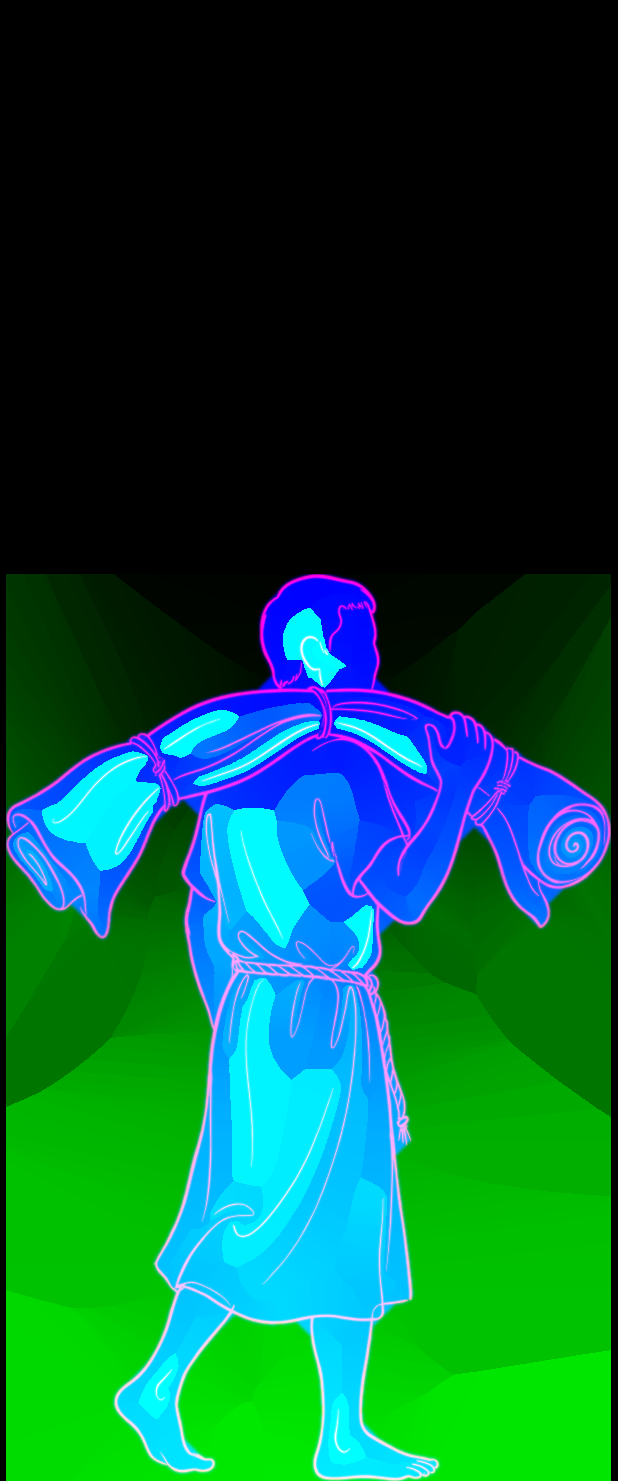
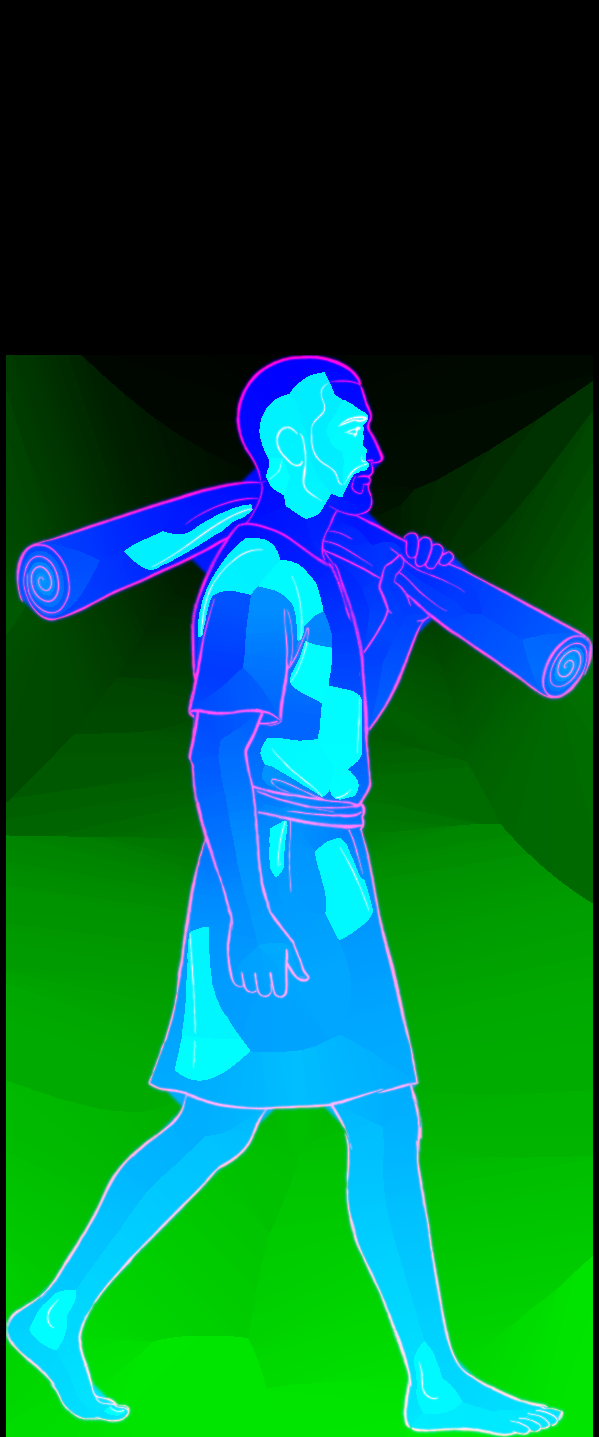
Recap walk: each figure's direction now has a reason
L15 man in water faces John; L16 woman three-quarter toward Jesus, jar on the
ground; L18 healed man strides side-on, narrower pillar; L19 freed man looks at
Jesus; L24 those leaving walk toward and past the viewer, hoods and feet fixed;
L31 healed man's face shows, pool pulled clear of the progress track.

Claude-Session: https://claude.ai/code/session_01PUXW98g7GeRrNVaktcGhRj

diff --git a/tools/recap-video/places/l24.js b/tools/recap-video/places/l24.js
@@ -1,23 +1,25 @@
 // Lesson 24 (full moment): many of his own followers walk away over a hard teaching. Jesus doesn't panic; he knew from the beginning.
-// One detail: the still man with his open hand. You come up behind a crowd following him. One a beat they turn back and pass you. A few stay.
+// One detail: the still man with his open hand. He's ahead of you, so the ones leaving come toward you and past your shoulders, three-quarter, heads down, one a beat. A few stay, from behind, facing him.
+// Leavers are one pose each from first sight to last, solid so they cover whoever's behind, in outer lanes so they never cross the ones who stay. They fade as they leave the frame, before they swell.
 export default async function (P) {
   await P.loadArt();
-  const Z = P.Z, cam = P.camera, L = P.beats(1), BACKS = ['p1', 'p3', 'p4', 'p2'], GOES = ['go1', 'go2'], B = 2;   // bar 2, not the loudest: the point is the long quiet hold after the last one goes
+  const Z = P.Z, cam = P.camera, L = P.beats(1), GOES = ['go1', 'go2', 'go3'], B = 2;   // bar 2, not the loudest: the point is the long quiet hold after the last one goes
   const key = P.ev('key', B, 1), turns = P.evs('turns back', B - 2, 1, 9, 1), on = P.ev('he walks on', 4, 1);
-  const HZ = Z - 6.6, HX = P.pathX(HZ) + 0.6, HH = 3.5;
-  const he = P.walker('still', HX, HZ, false, HH, { fadeNear: false, sil: 0.8, gain: 1.6, fog: false, turn: false }), light = P.pool(HX, HZ + 0.4, 5, 3.2, 0);
-  // the few who stay: close to him, shoulders tight, same road, same direction
-  const stay = [['stay1', -1.5, 0.4, false], ['stay2', 1.45, 1.3, false], ['p1', -3.3, -1.5, true]].map(([a, dx, dz, flip]) => ({ A: P.walker(a, HX + dx, HZ + dz, flip, 3.15, { fadeNear: false, sil: 0.8, gain: 1.3, turn: false }), z: HZ + dz }));
-  // the many: nearest turn first, so the road opens toward him. The last one, at his shoulder, turns on the key.
-  const crowd = turns.map((t0, i) => { const s = i % 2 ? 1 : -1, z = Z - 1.2 - i / 8 * 4.8, off = i === 8 ? 0.9 : 1.5 + hash(i + 11) * 2.2, h = 2.9 + hash(i + 3) * 0.35, sp = 1.5 + hash(i + 8) * 0.2, o = { fadeNear: false, sil: 0.8, turn: false, gain: 1.25 };
-    return { back: P.walker(BACKS[i % 4], 0, z, hash(i + 21) < 0.5, h, o), go: P.walker(GOES[i % 2], 0, z, s > 0, h, o), z, t0, sp, s, off }; });
+  const HZ = Z - 8.6, HX = P.pathX(HZ) + 0.6, HH = 3.7;
+  const he = P.walker('still', HX, HZ, false, HH, { fadeNear: false, sil: 0.92, gain: 1.6, fog: false, turn: false }), light = P.pool(HX, HZ + 0.4, 5, 3.2, 0);
+  // the few who stay: close to him, shoulders tight, backs to us, looking where he is
+  const stay = [['stay1', -1.5, 0.4], ['stay2', 1.4, 0.3], ['stay3', -2.45, -0.5]].map(([a, dx, dz]) => ({ A: P.walker(a, HX + dx, HZ + dz, false, 3.15, { fadeNear: false, sil: 0.8, gain: 1.3, turn: false }), z: HZ + dz }));
+  // the many: each comes away from around him, alternating sides, and leaves past one of your shoulders. Drawn stepping to screen-right, so the left side flips.
+  const crowd = turns.map((t0, i) => { const s = i % 2 ? 1 : -1, h = 2.95 + hash(i + 3) * 0.25, o = { fadeNear: false, sil: 1, turn: false, gain: 1.3 };
+    return { go: P.walker(GOES[i % 3], 0, HZ, s < 0, h, o), z0: HZ + 0.2 + hash(i + 11) * 0.8, t0, sp: 1.5 + hash(i + 8) * 0.15, s, w: hash(i + 5) * 24 }; });
   P.keep(he, { h: 4 });
   return { update(t) { const cz = cam.position.z, inK = seg(t, P.T.start, P.T.start + L * 3), outK = 1 - seg(t, on, on + L * 2), walk = Math.max(0, t - on) * 2.6, k = inK * outK;
     he.mesh.position.z = HZ - walk; P.gait(he, walk > 0, t); he.u.uA.value = k;
     light.position.z = HZ + 0.4 - walk; light.material.opacity = (0.14 + 0.05 * P.listen('keys', t)) * k;
     for (const S of stay) { S.A.mesh.position.z = S.z - walk; P.gait(S.A, walk > 0, t); S.A.u.uA.value = k; }
-    for (const C of crowd) { const age = t - C.t0, r = seg(age, -L * 0.5, L * 0.5), z = C.z + Math.max(0, age) * C.sp, d = cz - z, x = P.pathX(z) + C.s * (C.off + 0.25 * P.smooth(clamp(age / (L * 6)))), near = clamp((d - 2.7) / 2.2) * (d > 0 ? 1 : 0);
-      for (const A of [C.back, C.go]) { A.mesh.position.x = x; A.mesh.position.z = z; } P.gait(C.go, age > 0, t);
-      C.back.u.uA.value = inK * near * (1 - r) * outK; C.go.u.uA.value = inK * near * r * outK; }
+    for (const C of crowd) { const age = t - C.t0, z = C.z0 + Math.max(0, age) * C.sp, d = cz - z, gone = clamp((d - 3.0) / 1.0) * (d > 0 ? 1 : 0), px = (d > 7 ? 430 : d > 4.6 ? lerp(380, 430, (d - 4.6) / 2.4) : lerp(640, 380, clamp((d - 3) / 1.6))) + C.w, x = P.pathX(z) + C.s * px * Math.min(d, 9) / 1283;   // lane set in screen pixels so the face stays in frame until the last moment
+     
+      C.go.mesh.position.x = x; C.go.mesh.position.z = z; P.gait(C.go, age > 0, t);
+      C.go.u.uA.value = seg(age, 0, L) * gone * outK; }
   } };
 }

diff --git a/tools/recap-video/places/l18.js b/tools/recap-video/places/l18.js
@@ -1,15 +1,15 @@
 // Lesson 18 (short stop): a man walks after 38 years, and all the leaders can see is the mat he's carrying.
 // One detail: at Bethesda's colonnade only the rolled mat shows past the pillar, with two men from behind looking at it. Then he
-// walks out from behind it: the whole man, walking. No lens, no frame. The men never move.
+// walks out from behind it: the whole man in side view, face visible, mid-stride. The walking is the miracle. The men never move.
 export default async function (P) {
   await P.loadArt();
   const cam = P.camera, L = P.beats(1), dirX = (P.pathX(P.Z - 12) - P.X) / 12;
   const at = (d, px) => P.X + dirX * d + (px - 540) * d / 1283;              // world x that lands on screen x px, seen from where you stop
   const go = P.ev('he sets off', 1, 3); P.ev('key', 2, 1);                   // key: he is out from behind the pillar
-  const SP = 0.42, DM = 6, DP = 5, ZP = P.Z - DP, MX = at(DM, 350);
+  const SP = 0.6, DM = 7.5, DP = 5, ZP = P.Z - DP, MX = at(DM, 342);
 
   // the pillar: a stone shaft on a plain base, rising into the dark below the words. Opaque: it has to hide him.
-  const CW = 1.42, SW = 1.1, HT = 9, PX = 180;
+  const CW = 1.54, SW = 1.22, HT = 9, PX = 180;   // he stands further back than the pillar, so a slimmer shaft still hides his whole stride; only the roll's end shows past it.
   const pillar = P.thing(at(DP, 330), ZP, CW, HT, PX, c => { const cw = c.canvas.width, ch = c.canvas.height, d = cam.position.z - ZP, m = (CW - SW) / 2 * PX, b = 0.42 * PX;
     const yAt = sy => ch - (2.6 + (875 - sy) * d / 1283) * PX, g = c.createLinearGradient(0, yAt(570), 0, yAt(635));
     g.addColorStop(0, 'rgba(0,0,0,0)'); g.addColorStop(1, 'rgba(0,0,0,1)');

diff --git a/tools/recap-video/places/l31.js b/tools/recap-video/places/l31.js
@@ -14,7 +14,7 @@ export default async function (P) {
   const he = P.walker('he', H0X, H0Z, false, 3.1, { fog: false, fadeNear: false }), heGlow = P.glow(HX, 1.8, HZ - 0.2, 6, 0);
   // the pool: a thin stone rim on the ground, a ring of water, nothing filled
   const PX = cx(5.05) - 0.1, PZ = zd(5.05), ring = (R, r, u, w) => { const a = u * 6.283, k = 1 + 0.035 * Math.sin(a * 3 + 1) + 0.02 * Math.sin(a * 7), x = PX + Math.cos(a) * R * k, z = PZ + Math.sin(a) * r * k, m = w / 2; return [x - Math.cos(a) * m, z - Math.sin(a) * m, x + Math.cos(a) * m, z + Math.sin(a) * m]; };
-  const rim = P.ribbon(0xf0d4a8, 0, 120), water = P.ribbon(0xd4a574, 0, 120); rim.set(u => ring(1.65, 0.72, u, 0.026)); water.set(u => ring(1.38, 0.56, u, 0.016));
+  const rim = P.ribbon(0xf0d4a8, 0, 120), water = P.ribbon(0xd4a574, 0, 120); rim.set(u => ring(1.5, 0.52, u, 0.026)); water.set(u => ring(1.25, 0.4, u, 0.016));
   const rocks = [[1.15, 0.72], [1.72, 0.2], [-1.75, 0.12]].map(([dx, dz], i) => P.art(['s1', 's2', 's3'][i % 3], PX + dx, PZ - dz, 0.24 + hash(i + 61) * 0.1, { far: 30, near: 14, sil: 0.7, gain: 1.15, flip: i % 2 === 1 }));
   const ripples = wet.map(t0 => ({ t0, r: P.ribbon(0xf0d4a8, 0, 80) })), lightUp = P.glow(KX - 0.2, 1.9, KZ - 0.1, 4.5, 0), lightDown = P.pool(KX - 0.8, KZ + 0.6, 6, 3.4, 0);
   // the disciples: ordinary arms from beyond the frame, either side of you; they stay with you as you walk

diff --git a/tools/recap-video/places/l16.js b/tools/recap-video/places/l16.js
@@ -5,9 +5,9 @@ export default async function (P) {
   const Z = P.Z, X = P.X, cam = P.camera, L = P.beats(1);
   const view = d => X + (P.pathX(Z - 12) - X) * d / 12;                      // the straight line of sight from where you stop
   const flows = P.evs('stream runs', 0, 3, 4, 1), HEADKEY = 0.6, key = P.ev('key', 1, 1), opens = P.evs('line goes', 1, 2, 3, 1);
-  const HD = 4.7, WD = 8.2, LD = 6.3, hx = view(HD) - 1.05, wx = view(WD) + 1.15;
+  const HD = 4.7, WD = 8.2, LD = 6.3, hx = view(HD) - 1.05, wx = view(WD) + 1.35;
   const well = P.art('well', hx, Z - HD, 3.5, { flip: true, turn: false, far: 26, near: 9, gain: 1.6, sil: 0.6, fadeNear: false });
-  const woman = P.walker('woman', wx, Z - WD, false, 3.15, { turn: false, far: 26, near: 9, gain: 1.55, sil: 0.45, fadeNear: false });
+  const woman = P.walker('woman', wx, Z - WD, false, 3.15, { turn: false, far: 26, near: 9, gain: 1.4, sil: 0.92, fadeNear: false });
   // the stream: from the foot of the well, one gentle curve round his feet and away to the line on the key beat, across it, stopping just short of hers
   const pts = [[-1.05, 4.68], [-0.55, 4.5], [0, 4.75], [0.34, LD], [0.58, 7.15], [0.72, 7.95]].map(([o, d]) => [view(d) + o, d]), CX = pts[3][0];
   const cat = (a, b, c, e, s) => 0.5 * (2 * b + (c - a) * s + (2 * a - 5 * b + 4 * c - e) * s * s + (3 * b - a - 3 * c + e) * s * s * s);

diff --git a/tools/recap-video/places/l19.js b/tools/recap-video/places/l19.js
@@ -7,7 +7,7 @@ export default async function (P) {
   const D = 6.5, Z = P.Z - D, cam = P.camera, L = P.beats(1), H = 5, Y0 = -0.8, SKYD = 64;
   const key = P.ev('key', 1, 1), up = P.ev('dawn behind him', 2, 1);
   const figX = P.X + (P.pathX(P.Z - 12) - P.X) * D / 12 - 0.2, x = figX + 0.875, o = { y0: Y0, gain: 1.5, sil: 0.6, fadeNear: false, turn: false };   // he stands on the road, centre screen
-  const load = P.art('load', x, Z, H, { ...o, far: 26, near: 10 }), lift = P.art('lift', x, Z, H, { ...o, drawn: true }), free = P.art('free', x, Z, H, { ...o, drawn: true });
+  const load = P.art('load', x, Z, H, { ...o, far: 26, near: 10 }), lift = P.art('lift', x, Z, H, { ...o, drawn: true }), free = P.art('free', x, Z, H, { ...o, drawn: true, sil: 0.78 });
   // two soft ellipses on the horizon, wide and low. A ray through the figure keeps them centred behind him.
   const SW = 70, SH = 24, PX = 20, dawn = P.thing(0, 0, SW, SH, PX, c => { const w = c.canvas.width, h = c.canvas.height;
     const blob = (rx, ry, a) => { c.save(); c.translate(w / 2, h / 2); c.scale(rx, ry); const g = c.createRadialGradient(0, 0, 0, 0, 0, 1); g.addColorStop(0, `rgba(240,212,168,${a})`); g.addColorStop(0.45, `rgba(232,190,135,${a * 0.42})`); g.addColorStop(1, 'rgba(212,165,116,0)'); c.fillStyle = g; c.beginPath(); c.arc(0, 0, 1, 0, 6.3); c.fill(); c.restore(); };
